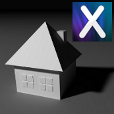
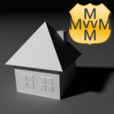
Added generation of mvvm-cross assets

diff --git a/build/generate-assets.js b/build/generate-assets.js
@@ -125,6 +125,15 @@ async.series([
     ["assets/frameworks/enyo.png", "enyo/assets/icons/ApplicationTileIcon.png", 173],
     ["assets/frameworks/delphi.png", "delphi/assets/icons/icon-57.png", 57],
     ["assets/frameworks/delphi.png", "delphi/assets/icons/icon-57-2x.png", 114],
+    ["assets/frameworks/xamarin-mvvmcross.png", "xamarin-Mvvmcross/PropertyCross.Phone/ApplicationIcon.png", 66],
+    ["assets/frameworks/xamarin-mvvmcross.png", "xamarin-Mvvmcross/PropertyCross.Phone/ApplicationTileIcon.png", 173],
+    ["assets/frameworks/xamarin-mvvmcross.png", "xamarin-Mvvmcross/PropertyCross.Droid/Resources/drawable-hdpi/ic_launcher.png", 72],
+    ["assets/frameworks/xamarin-mvvmcross.png", "xamarin-Mvvmcross/PropertyCross.Droid/Resources/drawable-ldpi/ic_launcher.png", 36],
+    ["assets/frameworks/xamarin-mvvmcross.png", "xamarin-Mvvmcross/PropertyCross.Droid/Resources/drawable-mdpi/ic_launcher.png", 48],
+    ["assets/frameworks/xamarin-mvvmcross.png", "xamarin-Mvvmcross/PropertyCross.Droid/Resources/drawable-xhdpi/ic_launcher.png", 96],
+    ["assets/frameworks/xamarin-mvvmcross.png", "xamarin-Mvvmcross/PropertyCross.Touch/Icon.png", 57],
+    ["assets/frameworks/xamarin-mvvmcross.png", "xamarin-Mvvmcross/PropertyCross.Touch/Icon@2x.png", 114]
+
   ]),
 
   generateSplashscreens.bind(null, "assets/splashscreen-bottom-640x640.png", [
